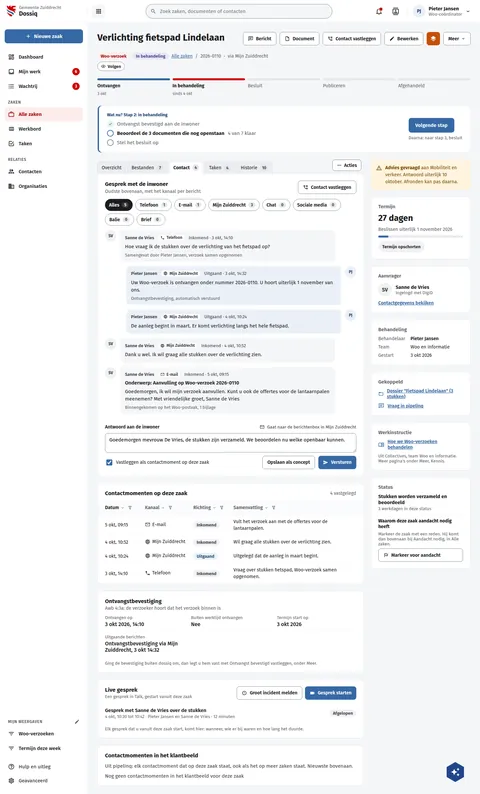
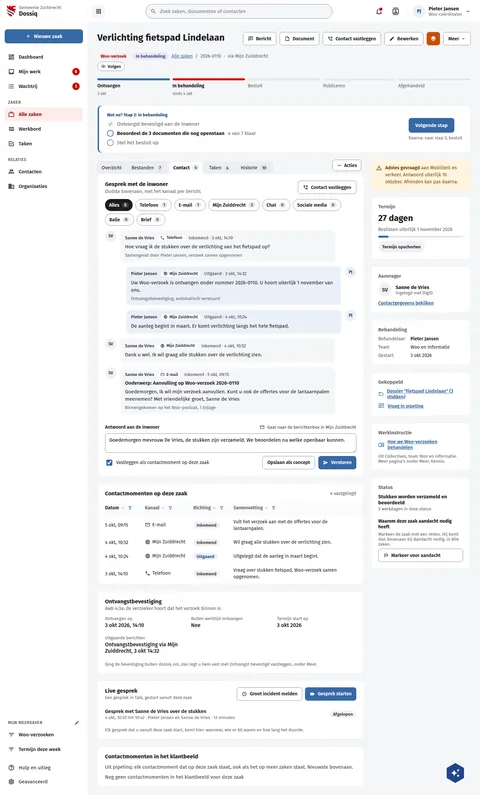
fix(screens): DqZaakSamenwerken and DqZaakContact r32 outliers (#607)
* fix(screens): DqZaakSamenwerken's options and footer as the other dialogs

The Delen/Overdragen option names at 15px like every dialog's options (they
inherited 16), and the footer buttons padded as the dialog boards draw them:
16px for Annuleren, 18px for Delen with its icon (r32: 16 vs 15, 14 vs 18).

Assisted-by: ClaudeCode:claude-opus-5-5

* fix(screens): DqZaakContact's receipt card starts its facts 14px under the header

As data cards under a subtitle do on the other boards (DqZaakBetrokkenen
Zetels) and live (r32 gapBelowTitle 31 vs 33.8; probed: header bottom 19.8,
the facts at 33.8).

Assisted-by: ClaudeCode:claude-opus-5-5

diff --git a/preview/screens/boards/DqZaakSamenwerken.html b/preview/screens/boards/DqZaakSamenwerken.html
@@ -154,8 +154,8 @@ a{color:var(--sc-primary, #3669a5)}a:hover{color:var(--sc-primary-deep, #234a78)
         <div style="display: flex; flex-direction: column; gap: 4px"><span style="font-size: 13px; font-weight: 700; color: var(--sc-primary-deep, #234a78)">Verlichting fietspad Lindelaan, 2026-0110</span><h2 id="dlg-titel" style="margin: 0; font-size: 20px; font-weight: 700">Zaak delen met een andere organisatie</h2></div>
         <button type="button" aria-label="Sluiten" style="width: 36px; height: 36px; border: 0; border-radius: 18px; background: transparent; color: var(--sc-work-text, #3d4047); display: inline-flex; align-items: center; justify-content: center"><svg width="18" height="18" viewbox="0 0 24 24" fill="currentColor" aria-hidden="true"><path d="M19,6.41L17.59,5L12,10.59L6.41,5L5,6.41L10.59,12L5,17.59L6.41,19L12,13.41L17.59,19L19,17.59L13.41,12L19,6.41Z"></path></svg></button>
       </div>
-      <div style="padding: 18px 24px 20px; display: flex; flex-direction: column; gap: 16px"><fieldset style="margin: 0; padding: 0; border: 0; display: flex; gap: 10px"><label style="flex: 1; display: flex; gap: 10px; align-items: flex-start; padding: 12px 14px; border: 2px solid var(--sc-primary, #3669a5); border-radius: 10px"><input type="radio" checked style="width: 20px; height: 20px; margin: 2px 0 0; accent-color: var(--sc-primary, #3669a5); flex: none"><span style="display: flex; flex-direction: column; gap: 2px"><strong>Delen</strong><span style="font-size: 13px; color: var(--sc-work-muted, #5e6168)">U blijft eigenaar; zij werken mee</span></span></label><label style="flex: 1; display: flex; gap: 10px; align-items: flex-start; padding: 12px 14px; border: 1px solid var(--sc-work-field, #828a95); border-radius: 10px"><input type="radio" style="width: 20px; height: 20px; margin: 2px 0 0; accent-color: var(--sc-primary, #3669a5); flex: none"><span style="display: flex; flex-direction: column; gap: 2px"><strong>Overdragen</strong><span style="font-size: 13px; color: var(--sc-work-muted, #5e6168)">Zij worden eigenaar; u kunt nog meelezen</span></span></label></fieldset><div style="display: flex; flex-direction: column; gap: 6px"><label style="font-size: 14px; font-weight: 600">Organisatie</label><div style="position: relative"><select style="appearance: none; width: 100%; height: 40px; box-sizing: border-box; padding: 0 36px 0 12px; border: 1px solid var(--sc-work-field, #828a95); border-radius: 8px; background: #ffffff; font: 400 15px var(--sc-font, 'Fira Sans'), sans-serif; color: var(--sc-work-ink, #1b1c1d)"><option>Omgevingsdienst Zuid-Holland Zuid (odzhz.nl)</option></select><span style="position: absolute; right: 10px; top: 10px; color: var(--sc-work-text, #3d4047)"><svg width="18" height="18" viewbox="0 0 24 24" fill="currentColor" aria-hidden="true"><path d="M7.41,8.58L12,13.17L16.59,8.58L18,10L12,16L6,10L7.41,8.58Z"></path></svg></span></div></div><div style="display: flex; flex-direction: column; gap: 6px"><label style="font-size: 14px; font-weight: 600">Wat zij mogen</label><div style="position: relative"><select style="appearance: none; width: 100%; height: 40px; box-sizing: border-box; padding: 0 36px 0 12px; border: 1px solid var(--sc-work-field, #828a95); border-radius: 8px; background: #ffffff; font: 400 15px var(--sc-font, 'Fira Sans'), sans-serif; color: var(--sc-work-ink, #1b1c1d)"><option>Lezen en documenten toevoegen</option></select><span style="position: absolute; right: 10px; top: 10px; color: var(--sc-work-text, #3d4047)"><svg width="18" height="18" viewbox="0 0 24 24" fill="currentColor" aria-hidden="true"><path d="M7.41,8.58L12,13.17L16.59,8.58L18,10L12,16L6,10L7.41,8.58Z"></path></svg></span></div></div><div style="display: flex; flex-direction: column; gap: 6px"><label style="font-size: 14px; font-weight: 600">Bericht <span style="font-weight: 400; color: var(--sc-work-muted, #5e6168)">(niet verplicht)</span></label><input type="text" value="Graag jullie advies over de verlichtingsnormen." style="box-sizing: border-box; width: 100%; height: 40px; padding: 0 12px; border: 1px solid var(--sc-work-field, #828a95); border-radius: 8px; background: #ffffff; font: 400 15px var(--sc-font, 'Fira Sans'), sans-serif; color: var(--sc-work-ink, #1b1c1d)"></div><label style="display: flex; gap: 10px; align-items: center; font-size: 14px; font-weight: 600"><input type="checkbox" style="width: 18px; height: 18px; margin: 0; accent-color: var(--sc-primary, #3669a5); flex: none">Alleen een deel van de zaakvelden delen</label><div style="display: flex; gap: 10px; align-items: flex-start; padding: 10px 14px; border-radius: 10px; background: var(--sc-primary-light, #eaf0f7); color: var(--sc-primary-deep, #234a78); font-size: 13px; line-height: 1.5"><span style="flex: none; margin-top: 1px"><svg width="18" height="18" viewbox="0 0 24 24" fill="currentColor" aria-hidden="true"><path d="M11,9H13V7H11M12,20C7.59,20 4,16.41 4,12C4,7.59 7.59,4 12,4C16.41,4 20,7.59 20,12C20,16.41 16.41,20 12,20M12,2A10,10 0 0,0 2,12A10,10 0 0,0 12,22A10,10 0 0,0 22,12A10,10 0 0,0 12,2M11,17H13V11H11V17Z"></path></svg></span><span>U ziet daarna op de zaak wat de andere organisatie doet: geopend, document toegevoegd, teruggegeven.</span></div></div>
-      <div style="display: flex; justify-content: flex-end; gap: 10px; padding: 16px 24px; border-top: 1px solid var(--sc-work-soft, #eef0f3)"><button type="button" style="display: inline-flex; align-items: center; gap: 8px; height: 40px; padding: 0 14px; border-radius: 8px; font: 600 14px var(--sc-font, 'Fira Sans'), sans-serif; white-space: nowrap; border: 1px solid var(--sc-work-field, #828a95); background: #ffffff; color: var(--sc-work-ink, #1b1c1d);">Annuleren</button><button type="button" style="display: inline-flex; align-items: center; gap: 8px; height: 40px; padding: 0 14px; border-radius: 8px; font: 600 14px var(--sc-font, 'Fira Sans'), sans-serif; white-space: nowrap; border: 0; background: var(--sc-primary, #3669a5); color: #ffffff;"><svg width="16" height="16" viewbox="0 0 24 24" fill="currentColor" aria-hidden="true"><path d="M2,21L23,12L2,3V10L17,12L2,14V21Z"></path></svg>Delen</button></div>
+      <div style="padding: 18px 24px 20px; display: flex; flex-direction: column; gap: 16px"><fieldset style="margin: 0; padding: 0; border: 0; display: flex; gap: 10px"><label style="flex: 1; display: flex; gap: 10px; align-items: flex-start; padding: 12px 14px; border: 2px solid var(--sc-primary, #3669a5); border-radius: 10px"><input type="radio" checked style="width: 20px; height: 20px; margin: 2px 0 0; accent-color: var(--sc-primary, #3669a5); flex: none"><span style="display: flex; flex-direction: column; gap: 2px"><strong style="font-size: 15px">Delen</strong><span style="font-size: 13px; color: var(--sc-work-muted, #5e6168)">U blijft eigenaar; zij werken mee</span></span></label><label style="flex: 1; display: flex; gap: 10px; align-items: flex-start; padding: 12px 14px; border: 1px solid var(--sc-work-field, #828a95); border-radius: 10px"><input type="radio" style="width: 20px; height: 20px; margin: 2px 0 0; accent-color: var(--sc-primary, #3669a5); flex: none"><span style="display: flex; flex-direction: column; gap: 2px"><strong style="font-size: 15px">Overdragen</strong><span style="font-size: 13px; color: var(--sc-work-muted, #5e6168)">Zij worden eigenaar; u kunt nog meelezen</span></span></label></fieldset><div style="display: flex; flex-direction: column; gap: 6px"><label style="font-size: 14px; font-weight: 600">Organisatie</label><div style="position: relative"><select style="appearance: none; width: 100%; height: 40px; box-sizing: border-box; padding: 0 36px 0 12px; border: 1px solid var(--sc-work-field, #828a95); border-radius: 8px; background: #ffffff; font: 400 15px var(--sc-font, 'Fira Sans'), sans-serif; color: var(--sc-work-ink, #1b1c1d)"><option>Omgevingsdienst Zuid-Holland Zuid (odzhz.nl)</option></select><span style="position: absolute; right: 10px; top: 10px; color: var(--sc-work-text, #3d4047)"><svg width="18" height="18" viewbox="0 0 24 24" fill="currentColor" aria-hidden="true"><path d="M7.41,8.58L12,13.17L16.59,8.58L18,10L12,16L6,10L7.41,8.58Z"></path></svg></span></div></div><div style="display: flex; flex-direction: column; gap: 6px"><label style="font-size: 14px; font-weight: 600">Wat zij mogen</label><div style="position: relative"><select style="appearance: none; width: 100%; height: 40px; box-sizing: border-box; padding: 0 36px 0 12px; border: 1px solid var(--sc-work-field, #828a95); border-radius: 8px; background: #ffffff; font: 400 15px var(--sc-font, 'Fira Sans'), sans-serif; color: var(--sc-work-ink, #1b1c1d)"><option>Lezen en documenten toevoegen</option></select><span style="position: absolute; right: 10px; top: 10px; color: var(--sc-work-text, #3d4047)"><svg width="18" height="18" viewbox="0 0 24 24" fill="currentColor" aria-hidden="true"><path d="M7.41,8.58L12,13.17L16.59,8.58L18,10L12,16L6,10L7.41,8.58Z"></path></svg></span></div></div><div style="display: flex; flex-direction: column; gap: 6px"><label style="font-size: 14px; font-weight: 600">Bericht <span style="font-weight: 400; color: var(--sc-work-muted, #5e6168)">(niet verplicht)</span></label><input type="text" value="Graag jullie advies over de verlichtingsnormen." style="box-sizing: border-box; width: 100%; height: 40px; padding: 0 12px; border: 1px solid var(--sc-work-field, #828a95); border-radius: 8px; background: #ffffff; font: 400 15px var(--sc-font, 'Fira Sans'), sans-serif; color: var(--sc-work-ink, #1b1c1d)"></div><label style="display: flex; gap: 10px; align-items: center; font-size: 14px; font-weight: 600"><input type="checkbox" style="width: 18px; height: 18px; margin: 0; accent-color: var(--sc-primary, #3669a5); flex: none">Alleen een deel van de zaakvelden delen</label><div style="display: flex; gap: 10px; align-items: flex-start; padding: 10px 14px; border-radius: 10px; background: var(--sc-primary-light, #eaf0f7); color: var(--sc-primary-deep, #234a78); font-size: 13px; line-height: 1.5"><span style="flex: none; margin-top: 1px"><svg width="18" height="18" viewbox="0 0 24 24" fill="currentColor" aria-hidden="true"><path d="M11,9H13V7H11M12,20C7.59,20 4,16.41 4,12C4,7.59 7.59,4 12,4C16.41,4 20,7.59 20,12C20,16.41 16.41,20 12,20M12,2A10,10 0 0,0 2,12A10,10 0 0,0 12,22A10,10 0 0,0 22,12A10,10 0 0,0 12,2M11,17H13V11H11V17Z"></path></svg></span><span>U ziet daarna op de zaak wat de andere organisatie doet: geopend, document toegevoegd, teruggegeven.</span></div></div>
+      <div style="display: flex; justify-content: flex-end; gap: 10px; padding: 16px 24px; border-top: 1px solid var(--sc-work-soft, #eef0f3)"><button type="button" style="display: inline-flex; align-items: center; gap: 8px; height: 40px; padding: 0 16px; border-radius: 8px; font: 600 14px var(--sc-font, 'Fira Sans'), sans-serif; white-space: nowrap; border: 1px solid var(--sc-work-field, #828a95); background: #ffffff; color: var(--sc-work-ink, #1b1c1d);">Annuleren</button><button type="button" style="display: inline-flex; align-items: center; gap: 8px; height: 40px; padding: 0 18px; border-radius: 8px; font: 600 14px var(--sc-font, 'Fira Sans'), sans-serif; white-space: nowrap; border: 0; background: var(--sc-primary, #3669a5); color: #ffffff;"><svg width="16" height="16" viewbox="0 0 24 24" fill="currentColor" aria-hidden="true"><path d="M2,21L23,12L2,3V10L17,12L2,14V21Z"></path></svg>Delen</button></div>
     </div>
   </div>
 </div>

diff --git a/preview/screens/boards/DqZaakContact.html b/preview/screens/boards/DqZaakContact.html
@@ -360,7 +360,7 @@ a{color:var(--sc-primary, #3669a5)}a:hover{color:var(--sc-primary-deep, #234a78)
                 </table>
               </div>
             </section>
-<section style="background: #ffffff; border: 1px solid var(--sc-work-line, #e4e6ea); border-radius: 12px; padding: 20px 22px; display: flex; flex-direction: column; gap: 12px"><div style="display: flex; flex-wrap: wrap; justify-content: space-between; align-items: flex-start; gap: 10px"><div style="display: flex; flex-direction: column; gap: 2px; min-width: 0"><h2 style="margin: 0; font-size: 17px; font-weight: 700">Ontvangstbevestiging</h2><span style="font-size: 14px; color: var(--sc-work-muted, #5e6168)">Awb 4:3a: de verzoeker hoort dat het verzoek binnen is</span></div></div><dl style="margin: 0; display: grid; grid-template-columns: repeat(auto-fit, minmax(200px, 1fr)); gap: 10px 20px"><div style="display: flex; flex-direction: column; gap: 3px; padding-bottom: 10px; border-bottom: 1px solid var(--sc-work-soft, #eef0f3)"><dt style="font-size: 13px; color: var(--sc-work-muted, #5e6168)">Ontvangen op</dt><dd style="margin: 0; font-weight: 500">3 okt 2026, 14:10</dd></div><div style="display: flex; flex-direction: column; gap: 3px; padding-bottom: 10px; border-bottom: 1px solid var(--sc-work-soft, #eef0f3)"><dt style="font-size: 13px; color: var(--sc-work-muted, #5e6168)">Buiten werktijd ontvangen</dt><dd style="margin: 0; font-weight: 500">Nee</dd></div><div style="display: flex; flex-direction: column; gap: 3px; padding-bottom: 10px; border-bottom: 1px solid var(--sc-work-soft, #eef0f3)"><dt style="font-size: 13px; color: var(--sc-work-muted, #5e6168)">Termijn start op</dt><dd style="margin: 0; font-weight: 500">3 okt 2026</dd></div><div style="display: flex; flex-direction: column; gap: 3px; padding-bottom: 10px; border-bottom: 1px solid var(--sc-work-soft, #eef0f3)"><dt style="font-size: 13px; color: var(--sc-work-muted, #5e6168)">Uitgaande berichten</dt><dd style="margin: 0; font-weight: 500">Ontvangstbevestiging via Mijn Zuiddrecht, 3 okt 14:32</dd></div></dl><span style="font-size: 13px; color: var(--sc-work-muted, #5e6168)">Ging de bevestiging buiten dossiq om, dan legt u hem vast met Ontvangst bevestigd vastleggen, onder Meer.</span></section><section style="background: #ffffff; border: 1px solid var(--sc-work-line, #e4e6ea); border-radius: 12px; padding: 20px 22px; display: flex; flex-direction: column; gap: 12px"><div style="display: flex; flex-wrap: wrap; justify-content: space-between; align-items: flex-start; gap: 10px"><div style="display: flex; flex-direction: column; gap: 2px; min-width: 0"><h2 style="margin: 0; font-size: 17px; font-weight: 700">Live gesprek</h2><span style="font-size: 13px; color: var(--sc-work-muted, #5e6168)">Een gesprek in Talk, gestart vanuit deze zaak</span></div><span style="display: flex; flex-wrap: wrap; gap: 8px"><button type="button" style="display: inline-flex; align-items: center; gap: 8px; height: 40px; padding: 0 14px; border-radius: 8px; border: 1px solid var(--sc-work-field, #828a95); background: #ffffff; color: var(--sc-work-ink, #1b1c1d); font: 600 14px var(--sc-font, 'Fira Sans'), sans-serif; white-space: nowrap"><svg width="16" height="16" viewbox="0 0 24 24" fill="currentColor" aria-hidden="true"><path d="M8.27,3L3,8.27V15.73L8.27,21H15.73C17.5,19.24 21,15.73 21,15.73V8.27L15.73,3M9.1,5H14.9L19,9.1V14.9L14.9,19H9.1L5,14.9V9.1M11,15H13V17H11V15M11,7H13V13H11V7"></path></svg>Groot incident melden</button><button type="button" style="display: inline-flex; align-items: center; gap: 8px; height: 40px; padding: 0 14px; border-radius: 8px; border: 0; background: var(--sc-primary, #3669a5); color: #ffffff; font: 600 14px var(--sc-font, 'Fira Sans'), sans-serif; white-space: nowrap"><svg width="16" height="16" viewbox="0 0 24 24" fill="currentColor" aria-hidden="true"><path d="M17,10.5V7A1,1 0 0,0 16,6H4A1,1 0 0,0 3,7V17A1,1 0 0,0 4,18H16A1,1 0 0,0 17,17V13.5L21,17.5V6.5L17,10.5Z"></path></svg>Gesprek starten</button></span></div><ul style="margin: 0; padding: 0; list-style: none"><li style="display: flex; flex-wrap: wrap; gap: 6px 16px; align-items: center; padding: 10px 0; border-top: 1px solid var(--sc-work-soft, #eef0f3)"><span style="flex: 1 1 240px; display: flex; flex-direction: column; gap: 2px"><strong style="font-size: 15px; font-weight: 600">Gesprek met Sanne de Vries over de stukken</strong><span style="font-size: 13px; color: var(--sc-work-muted, #5e6168)">4 okt, 10:30 tot 10:42 · Pieter Jansen en Sanne de Vries · 12 minuten</span></span><span style="padding: 3px 10px; border-radius: 12px; background: var(--sc-work-chip, #f0f1f3); color: var(--sc-work-text, #3d4047); font-size: 13px; font-weight: 600; white-space: nowrap">Afgelopen</span></li></ul><span style="font-size: 13px; color: var(--sc-work-muted, #5e6168)">Elk gesprek dat u vanuit deze zaak start, komt hier: wanneer, wie er bij waren en hoe lang het duurde.</span></section><section aria-label="Contactmomenten in het klantbeeld" style="background: #ffffff; border: 1px solid var(--sc-work-line, #e4e6ea); border-radius: 12px; padding: 20px 22px; display: flex; flex-direction: column; gap: 12px"><h2 style="margin: 0; font-size: 17px; font-weight: 700">Contactmomenten in het klantbeeld</h2><p style="margin: 0; font-size: 15px; color: var(--sc-work-text, #3d4047)">Uit pipelinq: elk contactmoment dat op deze zaak staat, ook als het op meer zaken staat. Nieuwste bovenaan.</p><p style="margin: 0; font-size: 15px; color: var(--sc-work-text, #3d4047)">Nog geen contactmomenten in het klantbeeld voor deze zaak</p></section>
+<section style="background: #ffffff; border: 1px solid var(--sc-work-line, #e4e6ea); border-radius: 12px; padding: 20px 22px; display: flex; flex-direction: column; gap: 12px"><div style="display: flex; flex-wrap: wrap; justify-content: space-between; align-items: flex-start; gap: 10px"><div style="display: flex; flex-direction: column; gap: 2px; min-width: 0"><h2 style="margin: 0; font-size: 17px; font-weight: 700">Ontvangstbevestiging</h2><span style="font-size: 14px; color: var(--sc-work-muted, #5e6168)">Awb 4:3a: de verzoeker hoort dat het verzoek binnen is</span></div></div><dl style="margin: 2px 0 0; display: grid; grid-template-columns: repeat(auto-fit, minmax(200px, 1fr)); gap: 10px 20px"><div style="display: flex; flex-direction: column; gap: 3px; padding-bottom: 10px; border-bottom: 1px solid var(--sc-work-soft, #eef0f3)"><dt style="font-size: 13px; color: var(--sc-work-muted, #5e6168)">Ontvangen op</dt><dd style="margin: 0; font-weight: 500">3 okt 2026, 14:10</dd></div><div style="display: flex; flex-direction: column; gap: 3px; padding-bottom: 10px; border-bottom: 1px solid var(--sc-work-soft, #eef0f3)"><dt style="font-size: 13px; color: var(--sc-work-muted, #5e6168)">Buiten werktijd ontvangen</dt><dd style="margin: 0; font-weight: 500">Nee</dd></div><div style="display: flex; flex-direction: column; gap: 3px; padding-bottom: 10px; border-bottom: 1px solid var(--sc-work-soft, #eef0f3)"><dt style="font-size: 13px; color: var(--sc-work-muted, #5e6168)">Termijn start op</dt><dd style="margin: 0; font-weight: 500">3 okt 2026</dd></div><div style="display: flex; flex-direction: column; gap: 3px; padding-bottom: 10px; border-bottom: 1px solid var(--sc-work-soft, #eef0f3)"><dt style="font-size: 13px; color: var(--sc-work-muted, #5e6168)">Uitgaande berichten</dt><dd style="margin: 0; font-weight: 500">Ontvangstbevestiging via Mijn Zuiddrecht, 3 okt 14:32</dd></div></dl><span style="font-size: 13px; color: var(--sc-work-muted, #5e6168)">Ging de bevestiging buiten dossiq om, dan legt u hem vast met Ontvangst bevestigd vastleggen, onder Meer.</span></section><section style="background: #ffffff; border: 1px solid var(--sc-work-line, #e4e6ea); border-radius: 12px; padding: 20px 22px; display: flex; flex-direction: column; gap: 12px"><div style="display: flex; flex-wrap: wrap; justify-content: space-between; align-items: flex-start; gap: 10px"><div style="display: flex; flex-direction: column; gap: 2px; min-width: 0"><h2 style="margin: 0; font-size: 17px; font-weight: 700">Live gesprek</h2><span style="font-size: 13px; color: var(--sc-work-muted, #5e6168)">Een gesprek in Talk, gestart vanuit deze zaak</span></div><span style="display: flex; flex-wrap: wrap; gap: 8px"><button type="button" style="display: inline-flex; align-items: center; gap: 8px; height: 40px; padding: 0 14px; border-radius: 8px; border: 1px solid var(--sc-work-field, #828a95); background: #ffffff; color: var(--sc-work-ink, #1b1c1d); font: 600 14px var(--sc-font, 'Fira Sans'), sans-serif; white-space: nowrap"><svg width="16" height="16" viewbox="0 0 24 24" fill="currentColor" aria-hidden="true"><path d="M8.27,3L3,8.27V15.73L8.27,21H15.73C17.5,19.24 21,15.73 21,15.73V8.27L15.73,3M9.1,5H14.9L19,9.1V14.9L14.9,19H9.1L5,14.9V9.1M11,15H13V17H11V15M11,7H13V13H11V7"></path></svg>Groot incident melden</button><button type="button" style="display: inline-flex; align-items: center; gap: 8px; height: 40px; padding: 0 14px; border-radius: 8px; border: 0; background: var(--sc-primary, #3669a5); color: #ffffff; font: 600 14px var(--sc-font, 'Fira Sans'), sans-serif; white-space: nowrap"><svg width="16" height="16" viewbox="0 0 24 24" fill="currentColor" aria-hidden="true"><path d="M17,10.5V7A1,1 0 0,0 16,6H4A1,1 0 0,0 3,7V17A1,1 0 0,0 4,18H16A1,1 0 0,0 17,17V13.5L21,17.5V6.5L17,10.5Z"></path></svg>Gesprek starten</button></span></div><ul style="margin: 0; padding: 0; list-style: none"><li style="display: flex; flex-wrap: wrap; gap: 6px 16px; align-items: center; padding: 10px 0; border-top: 1px solid var(--sc-work-soft, #eef0f3)"><span style="flex: 1 1 240px; display: flex; flex-direction: column; gap: 2px"><strong style="font-size: 15px; font-weight: 600">Gesprek met Sanne de Vries over de stukken</strong><span style="font-size: 13px; color: var(--sc-work-muted, #5e6168)">4 okt, 10:30 tot 10:42 · Pieter Jansen en Sanne de Vries · 12 minuten</span></span><span style="padding: 3px 10px; border-radius: 12px; background: var(--sc-work-chip, #f0f1f3); color: var(--sc-work-text, #3d4047); font-size: 13px; font-weight: 600; white-space: nowrap">Afgelopen</span></li></ul><span style="font-size: 13px; color: var(--sc-work-muted, #5e6168)">Elk gesprek dat u vanuit deze zaak start, komt hier: wanneer, wie er bij waren en hoe lang het duurde.</span></section><section aria-label="Contactmomenten in het klantbeeld" style="background: #ffffff; border: 1px solid var(--sc-work-line, #e4e6ea); border-radius: 12px; padding: 20px 22px; display: flex; flex-direction: column; gap: 12px"><h2 style="margin: 0; font-size: 17px; font-weight: 700">Contactmomenten in het klantbeeld</h2><p style="margin: 0; font-size: 15px; color: var(--sc-work-text, #3d4047)">Uit pipelinq: elk contactmoment dat op deze zaak staat, ook als het op meer zaken staat. Nieuwste bovenaan.</p><p style="margin: 0; font-size: 15px; color: var(--sc-work-text, #3d4047)">Nog geen contactmomenten in het klantbeeld voor deze zaak</p></section>
           </div>
 
           <aside style="flex: 1 1 300px; min-width: 0; display: flex; flex-direction: column; gap: 20px">

diff --git a/screens-src/zuiddrecht/DqZaakSamenwerken.dc.html b/screens-src/zuiddrecht/DqZaakSamenwerken.dc.html
@@ -36,8 +36,8 @@ a{color:#3669a5}a:hover{color:#234a78}
         <div style="display: flex; flex-direction: column; gap: 4px"><span style="font-size: 13px; font-weight: 700; color: #234a78">Verlichting fietspad Lindelaan, 2026-0110</span><h2 id="dlg-titel" style="margin: 0; font-size: 20px; font-weight: 700">Zaak delen met een andere organisatie</h2></div>
         <button type="button" aria-label="Sluiten" style="width: 36px; height: 36px; border: 0; border-radius: 18px; background: transparent; color: #3d4047; display: inline-flex; align-items: center; justify-content: center"><svg width="18" height="18" viewBox="0 0 24 24" fill="currentColor" aria-hidden="true"><path d="M19,6.41L17.59,5L12,10.59L6.41,5L5,6.41L10.59,12L5,17.59L6.41,19L12,13.41L17.59,19L19,17.59L13.41,12L19,6.41Z"></path></svg></button>
       </div>
-      <div style="padding: 18px 24px 20px; display: flex; flex-direction: column; gap: 16px"><fieldset style="margin: 0; padding: 0; border: 0; display: flex; gap: 10px"><label style="flex: 1; display: flex; gap: 10px; align-items: flex-start; padding: 12px 14px; border: 2px solid #3669a5; border-radius: 10px"><input type="radio" checked style="width: 20px; height: 20px; margin: 2px 0 0; accent-color: #3669a5; flex: none"><span style="display: flex; flex-direction: column; gap: 2px"><strong>Delen</strong><span style="font-size: 13px; color: #5e6168">U blijft eigenaar; zij werken mee</span></span></label><label style="flex: 1; display: flex; gap: 10px; align-items: flex-start; padding: 12px 14px; border: 1px solid #828a95; border-radius: 10px"><input type="radio"  style="width: 20px; height: 20px; margin: 2px 0 0; accent-color: #3669a5; flex: none"><span style="display: flex; flex-direction: column; gap: 2px"><strong>Overdragen</strong><span style="font-size: 13px; color: #5e6168">Zij worden eigenaar; u kunt nog meelezen</span></span></label></fieldset><div style="display: flex; flex-direction: column; gap: 6px"><label style="font-size: 14px; font-weight: 600">Organisatie</label><div style="position: relative"><select style="appearance: none; width: 100%; height: 40px; box-sizing: border-box; padding: 0 36px 0 12px; border: 1px solid #828a95; border-radius: 8px; background: #ffffff; font: 400 15px 'Fira Sans', sans-serif; color: #1b1c1d"><option>Omgevingsdienst Zuid-Holland Zuid (odzhz.nl)</option></select><span style="position: absolute; right: 10px; top: 10px; color: #3d4047"><svg width="18" height="18" viewBox="0 0 24 24" fill="currentColor" aria-hidden="true"><path d="M7.41,8.58L12,13.17L16.59,8.58L18,10L12,16L6,10L7.41,8.58Z"></path></svg></span></div></div><div style="display: flex; flex-direction: column; gap: 6px"><label style="font-size: 14px; font-weight: 600">Wat zij mogen</label><div style="position: relative"><select style="appearance: none; width: 100%; height: 40px; box-sizing: border-box; padding: 0 36px 0 12px; border: 1px solid #828a95; border-radius: 8px; background: #ffffff; font: 400 15px 'Fira Sans', sans-serif; color: #1b1c1d"><option>Lezen en documenten toevoegen</option></select><span style="position: absolute; right: 10px; top: 10px; color: #3d4047"><svg width="18" height="18" viewBox="0 0 24 24" fill="currentColor" aria-hidden="true"><path d="M7.41,8.58L12,13.17L16.59,8.58L18,10L12,16L6,10L7.41,8.58Z"></path></svg></span></div></div><div style="display: flex; flex-direction: column; gap: 6px"><label style="font-size: 14px; font-weight: 600">Bericht <span style="font-weight: 400; color: #5e6168">(niet verplicht)</span></label><input type="text" value="Graag jullie advies over de verlichtingsnormen." style="box-sizing: border-box; width: 100%; height: 40px; padding: 0 12px; border: 1px solid #828a95; border-radius: 8px; background: #ffffff; font: 400 15px 'Fira Sans', sans-serif; color: #1b1c1d"></div><label style="display: flex; gap: 10px; align-items: center; font-size: 14px; font-weight: 600"><input type="checkbox" style="width: 18px; height: 18px; margin: 0; accent-color: #3669a5; flex: none">Alleen een deel van de zaakvelden delen</label><div style="display: flex; gap: 10px; align-items: flex-start; padding: 10px 14px; border-radius: 10px; background: #eaf0f7; color: #234a78; font-size: 13px; line-height: 1.5"><span style="flex: none; margin-top: 1px"><svg width="18" height="18" viewBox="0 0 24 24" fill="currentColor" aria-hidden="true"><path d="M11,9H13V7H11M12,20C7.59,20 4,16.41 4,12C4,7.59 7.59,4 12,4C16.41,4 20,7.59 20,12C20,16.41 16.41,20 12,20M12,2A10,10 0 0,0 2,12A10,10 0 0,0 12,22A10,10 0 0,0 22,12A10,10 0 0,0 12,2M11,17H13V11H11V17Z"></path></svg></span><span>U ziet daarna op de zaak wat de andere organisatie doet: geopend, document toegevoegd, teruggegeven.</span></div></div>
-      <div style="display: flex; justify-content: flex-end; gap: 10px; padding: 16px 24px; border-top: 1px solid #eef0f3"><button type="button" style="display: inline-flex; align-items: center; gap: 8px; height: 40px; padding: 0 14px; border-radius: 8px; font: 600 14px 'Fira Sans', sans-serif; white-space: nowrap; border: 1px solid #828a95; background: #ffffff; color: #1b1c1d;">Annuleren</button><button type="button" style="display: inline-flex; align-items: center; gap: 8px; height: 40px; padding: 0 14px; border-radius: 8px; font: 600 14px 'Fira Sans', sans-serif; white-space: nowrap; border: 0; background: #3669a5; color: #ffffff;"><svg width="16" height="16" viewBox="0 0 24 24" fill="currentColor" aria-hidden="true"><path d="M2,21L23,12L2,3V10L17,12L2,14V21Z"></path></svg>Delen</button></div>
+      <div style="padding: 18px 24px 20px; display: flex; flex-direction: column; gap: 16px"><fieldset style="margin: 0; padding: 0; border: 0; display: flex; gap: 10px"><label style="flex: 1; display: flex; gap: 10px; align-items: flex-start; padding: 12px 14px; border: 2px solid #3669a5; border-radius: 10px"><input type="radio" checked style="width: 20px; height: 20px; margin: 2px 0 0; accent-color: #3669a5; flex: none"><span style="display: flex; flex-direction: column; gap: 2px"><strong style="font-size: 15px">Delen</strong><span style="font-size: 13px; color: #5e6168">U blijft eigenaar; zij werken mee</span></span></label><label style="flex: 1; display: flex; gap: 10px; align-items: flex-start; padding: 12px 14px; border: 1px solid #828a95; border-radius: 10px"><input type="radio"  style="width: 20px; height: 20px; margin: 2px 0 0; accent-color: #3669a5; flex: none"><span style="display: flex; flex-direction: column; gap: 2px"><strong style="font-size: 15px">Overdragen</strong><span style="font-size: 13px; color: #5e6168">Zij worden eigenaar; u kunt nog meelezen</span></span></label></fieldset><div style="display: flex; flex-direction: column; gap: 6px"><label style="font-size: 14px; font-weight: 600">Organisatie</label><div style="position: relative"><select style="appearance: none; width: 100%; height: 40px; box-sizing: border-box; padding: 0 36px 0 12px; border: 1px solid #828a95; border-radius: 8px; background: #ffffff; font: 400 15px 'Fira Sans', sans-serif; color: #1b1c1d"><option>Omgevingsdienst Zuid-Holland Zuid (odzhz.nl)</option></select><span style="position: absolute; right: 10px; top: 10px; color: #3d4047"><svg width="18" height="18" viewBox="0 0 24 24" fill="currentColor" aria-hidden="true"><path d="M7.41,8.58L12,13.17L16.59,8.58L18,10L12,16L6,10L7.41,8.58Z"></path></svg></span></div></div><div style="display: flex; flex-direction: column; gap: 6px"><label style="font-size: 14px; font-weight: 600">Wat zij mogen</label><div style="position: relative"><select style="appearance: none; width: 100%; height: 40px; box-sizing: border-box; padding: 0 36px 0 12px; border: 1px solid #828a95; border-radius: 8px; background: #ffffff; font: 400 15px 'Fira Sans', sans-serif; color: #1b1c1d"><option>Lezen en documenten toevoegen</option></select><span style="position: absolute; right: 10px; top: 10px; color: #3d4047"><svg width="18" height="18" viewBox="0 0 24 24" fill="currentColor" aria-hidden="true"><path d="M7.41,8.58L12,13.17L16.59,8.58L18,10L12,16L6,10L7.41,8.58Z"></path></svg></span></div></div><div style="display: flex; flex-direction: column; gap: 6px"><label style="font-size: 14px; font-weight: 600">Bericht <span style="font-weight: 400; color: #5e6168">(niet verplicht)</span></label><input type="text" value="Graag jullie advies over de verlichtingsnormen." style="box-sizing: border-box; width: 100%; height: 40px; padding: 0 12px; border: 1px solid #828a95; border-radius: 8px; background: #ffffff; font: 400 15px 'Fira Sans', sans-serif; color: #1b1c1d"></div><label style="display: flex; gap: 10px; align-items: center; font-size: 14px; font-weight: 600"><input type="checkbox" style="width: 18px; height: 18px; margin: 0; accent-color: #3669a5; flex: none">Alleen een deel van de zaakvelden delen</label><div style="display: flex; gap: 10px; align-items: flex-start; padding: 10px 14px; border-radius: 10px; background: #eaf0f7; color: #234a78; font-size: 13px; line-height: 1.5"><span style="flex: none; margin-top: 1px"><svg width="18" height="18" viewBox="0 0 24 24" fill="currentColor" aria-hidden="true"><path d="M11,9H13V7H11M12,20C7.59,20 4,16.41 4,12C4,7.59 7.59,4 12,4C16.41,4 20,7.59 20,12C20,16.41 16.41,20 12,20M12,2A10,10 0 0,0 2,12A10,10 0 0,0 12,22A10,10 0 0,0 22,12A10,10 0 0,0 12,2M11,17H13V11H11V17Z"></path></svg></span><span>U ziet daarna op de zaak wat de andere organisatie doet: geopend, document toegevoegd, teruggegeven.</span></div></div>
+      <div style="display: flex; justify-content: flex-end; gap: 10px; padding: 16px 24px; border-top: 1px solid #eef0f3"><button type="button" style="display: inline-flex; align-items: center; gap: 8px; height: 40px; padding: 0 16px; border-radius: 8px; font: 600 14px 'Fira Sans', sans-serif; white-space: nowrap; border: 1px solid #828a95; background: #ffffff; color: #1b1c1d;">Annuleren</button><button type="button" style="display: inline-flex; align-items: center; gap: 8px; height: 40px; padding: 0 18px; border-radius: 8px; font: 600 14px 'Fira Sans', sans-serif; white-space: nowrap; border: 0; background: #3669a5; color: #ffffff;"><svg width="16" height="16" viewBox="0 0 24 24" fill="currentColor" aria-hidden="true"><path d="M2,21L23,12L2,3V10L17,12L2,14V21Z"></path></svg>Delen</button></div>
     </div>
   </div>
 </div>

diff --git a/screens-src/zuiddrecht/DqZaakContact.dc.html b/screens-src/zuiddrecht/DqZaakContact.dc.html
@@ -135,7 +135,7 @@ a{color:#3669a5}a:hover{color:#234a78}
                 </table>
               </div>
             </section>
-<section style="background: #ffffff; border: 1px solid #e4e6ea; border-radius: 12px; padding: 20px 22px; display: flex; flex-direction: column; gap: 12px"><div style="display: flex; flex-wrap: wrap; justify-content: space-between; align-items: flex-start; gap: 10px"><div style="display: flex; flex-direction: column; gap: 2px; min-width: 0"><h2 style="margin: 0; font-size: 17px; font-weight: 700">Ontvangstbevestiging</h2><span style="font-size: 14px; color: #5e6168">Awb 4:3a: de verzoeker hoort dat het verzoek binnen is</span></div></div><dl style="margin: 0; display: grid; grid-template-columns: repeat(auto-fit, minmax(200px, 1fr)); gap: 10px 20px"><div style="display: flex; flex-direction: column; gap: 3px; padding-bottom: 10px; border-bottom: 1px solid #eef0f3"><dt style="font-size: 13px; color: #5e6168">Ontvangen op</dt><dd style="margin: 0; font-weight: 500">3 okt 2026, 14:10</dd></div><div style="display: flex; flex-direction: column; gap: 3px; padding-bottom: 10px; border-bottom: 1px solid #eef0f3"><dt style="font-size: 13px; color: #5e6168">Buiten werktijd ontvangen</dt><dd style="margin: 0; font-weight: 500">Nee</dd></div><div style="display: flex; flex-direction: column; gap: 3px; padding-bottom: 10px; border-bottom: 1px solid #eef0f3"><dt style="font-size: 13px; color: #5e6168">Termijn start op</dt><dd style="margin: 0; font-weight: 500">3 okt 2026</dd></div><div style="display: flex; flex-direction: column; gap: 3px; padding-bottom: 10px; border-bottom: 1px solid #eef0f3"><dt style="font-size: 13px; color: #5e6168">Uitgaande berichten</dt><dd style="margin: 0; font-weight: 500">Ontvangstbevestiging via Mijn Zuiddrecht, 3 okt 14:32</dd></div></dl><span style="font-size: 13px; color: #5e6168">Ging de bevestiging buiten dossiq om, dan legt u hem vast met Ontvangst bevestigd vastleggen, onder Meer.</span></section><section style="background: #ffffff; border: 1px solid #e4e6ea; border-radius: 12px; padding: 20px 22px; display: flex; flex-direction: column; gap: 12px"><div style="display: flex; flex-wrap: wrap; justify-content: space-between; align-items: flex-start; gap: 10px"><div style="display: flex; flex-direction: column; gap: 2px; min-width: 0"><h2 style="margin: 0; font-size: 17px; font-weight: 700">Live gesprek</h2><span style="font-size: 13px; color: #5e6168">Een gesprek in Talk, gestart vanuit deze zaak</span></div><span style="display: flex; flex-wrap: wrap; gap: 8px"><button type="button" style="display: inline-flex; align-items: center; gap: 8px; height: 40px; padding: 0 14px; border-radius: 8px; border: 1px solid #828a95; background: #ffffff; color: #1b1c1d; font: 600 14px 'Fira Sans', sans-serif; white-space: nowrap"><svg width="16" height="16" viewBox="0 0 24 24" fill="currentColor" aria-hidden="true"><path d="M8.27,3L3,8.27V15.73L8.27,21H15.73C17.5,19.24 21,15.73 21,15.73V8.27L15.73,3M9.1,5H14.9L19,9.1V14.9L14.9,19H9.1L5,14.9V9.1M11,15H13V17H11V15M11,7H13V13H11V7"></path></svg>Groot incident melden</button><button type="button" style="display: inline-flex; align-items: center; gap: 8px; height: 40px; padding: 0 14px; border-radius: 8px; border: 0; background: #3669a5; color: #ffffff; font: 600 14px 'Fira Sans', sans-serif; white-space: nowrap"><svg width="16" height="16" viewBox="0 0 24 24" fill="currentColor" aria-hidden="true"><path d="M17,10.5V7A1,1 0 0,0 16,6H4A1,1 0 0,0 3,7V17A1,1 0 0,0 4,18H16A1,1 0 0,0 17,17V13.5L21,17.5V6.5L17,10.5Z"></path></svg>Gesprek starten</button></span></div><ul style="margin: 0; padding: 0; list-style: none"><li style="display: flex; flex-wrap: wrap; gap: 6px 16px; align-items: center; padding: 10px 0; border-top: 1px solid #eef0f3"><span style="flex: 1 1 240px; display: flex; flex-direction: column; gap: 2px"><strong style="font-size: 15px; font-weight: 600">Gesprek met Sanne de Vries over de stukken</strong><span style="font-size: 13px; color: #5e6168">4 okt, 10:30 tot 10:42 · Pieter Jansen en Sanne de Vries · 12 minuten</span></span><span style="padding: 3px 10px; border-radius: 12px; background: #f0f1f3; color: #3d4047; font-size: 13px; font-weight: 600; white-space: nowrap">Afgelopen</span></li></ul><span style="font-size: 13px; color: #5e6168">Elk gesprek dat u vanuit deze zaak start, komt hier: wanneer, wie er bij waren en hoe lang het duurde.</span></section><section aria-label="Contactmomenten in het klantbeeld" style="background: #ffffff; border: 1px solid #e4e6ea; border-radius: 12px; padding: 20px 22px; display: flex; flex-direction: column; gap: 12px"><h2 style="margin: 0; font-size: 17px; font-weight: 700">Contactmomenten in het klantbeeld</h2><p style="margin: 0; font-size: 15px; color: #3d4047">Uit pipelinq: elk contactmoment dat op deze zaak staat, ook als het op meer zaken staat. Nieuwste bovenaan.</p><p style="margin: 0; font-size: 15px; color: #3d4047">Nog geen contactmomenten in het klantbeeld voor deze zaak</p></section>
+<section style="background: #ffffff; border: 1px solid #e4e6ea; border-radius: 12px; padding: 20px 22px; display: flex; flex-direction: column; gap: 12px"><div style="display: flex; flex-wrap: wrap; justify-content: space-between; align-items: flex-start; gap: 10px"><div style="display: flex; flex-direction: column; gap: 2px; min-width: 0"><h2 style="margin: 0; font-size: 17px; font-weight: 700">Ontvangstbevestiging</h2><span style="font-size: 14px; color: #5e6168">Awb 4:3a: de verzoeker hoort dat het verzoek binnen is</span></div></div><dl style="margin: 2px 0 0; display: grid; grid-template-columns: repeat(auto-fit, minmax(200px, 1fr)); gap: 10px 20px"><div style="display: flex; flex-direction: column; gap: 3px; padding-bottom: 10px; border-bottom: 1px solid #eef0f3"><dt style="font-size: 13px; color: #5e6168">Ontvangen op</dt><dd style="margin: 0; font-weight: 500">3 okt 2026, 14:10</dd></div><div style="display: flex; flex-direction: column; gap: 3px; padding-bottom: 10px; border-bottom: 1px solid #eef0f3"><dt style="font-size: 13px; color: #5e6168">Buiten werktijd ontvangen</dt><dd style="margin: 0; font-weight: 500">Nee</dd></div><div style="display: flex; flex-direction: column; gap: 3px; padding-bottom: 10px; border-bottom: 1px solid #eef0f3"><dt style="font-size: 13px; color: #5e6168">Termijn start op</dt><dd style="margin: 0; font-weight: 500">3 okt 2026</dd></div><div style="display: flex; flex-direction: column; gap: 3px; padding-bottom: 10px; border-bottom: 1px solid #eef0f3"><dt style="font-size: 13px; color: #5e6168">Uitgaande berichten</dt><dd style="margin: 0; font-weight: 500">Ontvangstbevestiging via Mijn Zuiddrecht, 3 okt 14:32</dd></div></dl><span style="font-size: 13px; color: #5e6168">Ging de bevestiging buiten dossiq om, dan legt u hem vast met Ontvangst bevestigd vastleggen, onder Meer.</span></section><section style="background: #ffffff; border: 1px solid #e4e6ea; border-radius: 12px; padding: 20px 22px; display: flex; flex-direction: column; gap: 12px"><div style="display: flex; flex-wrap: wrap; justify-content: space-between; align-items: flex-start; gap: 10px"><div style="display: flex; flex-direction: column; gap: 2px; min-width: 0"><h2 style="margin: 0; font-size: 17px; font-weight: 700">Live gesprek</h2><span style="font-size: 13px; color: #5e6168">Een gesprek in Talk, gestart vanuit deze zaak</span></div><span style="display: flex; flex-wrap: wrap; gap: 8px"><button type="button" style="display: inline-flex; align-items: center; gap: 8px; height: 40px; padding: 0 14px; border-radius: 8px; border: 1px solid #828a95; background: #ffffff; color: #1b1c1d; font: 600 14px 'Fira Sans', sans-serif; white-space: nowrap"><svg width="16" height="16" viewBox="0 0 24 24" fill="currentColor" aria-hidden="true"><path d="M8.27,3L3,8.27V15.73L8.27,21H15.73C17.5,19.24 21,15.73 21,15.73V8.27L15.73,3M9.1,5H14.9L19,9.1V14.9L14.9,19H9.1L5,14.9V9.1M11,15H13V17H11V15M11,7H13V13H11V7"></path></svg>Groot incident melden</button><button type="button" style="display: inline-flex; align-items: center; gap: 8px; height: 40px; padding: 0 14px; border-radius: 8px; border: 0; background: #3669a5; color: #ffffff; font: 600 14px 'Fira Sans', sans-serif; white-space: nowrap"><svg width="16" height="16" viewBox="0 0 24 24" fill="currentColor" aria-hidden="true"><path d="M17,10.5V7A1,1 0 0,0 16,6H4A1,1 0 0,0 3,7V17A1,1 0 0,0 4,18H16A1,1 0 0,0 17,17V13.5L21,17.5V6.5L17,10.5Z"></path></svg>Gesprek starten</button></span></div><ul style="margin: 0; padding: 0; list-style: none"><li style="display: flex; flex-wrap: wrap; gap: 6px 16px; align-items: center; padding: 10px 0; border-top: 1px solid #eef0f3"><span style="flex: 1 1 240px; display: flex; flex-direction: column; gap: 2px"><strong style="font-size: 15px; font-weight: 600">Gesprek met Sanne de Vries over de stukken</strong><span style="font-size: 13px; color: #5e6168">4 okt, 10:30 tot 10:42 · Pieter Jansen en Sanne de Vries · 12 minuten</span></span><span style="padding: 3px 10px; border-radius: 12px; background: #f0f1f3; color: #3d4047; font-size: 13px; font-weight: 600; white-space: nowrap">Afgelopen</span></li></ul><span style="font-size: 13px; color: #5e6168">Elk gesprek dat u vanuit deze zaak start, komt hier: wanneer, wie er bij waren en hoe lang het duurde.</span></section><section aria-label="Contactmomenten in het klantbeeld" style="background: #ffffff; border: 1px solid #e4e6ea; border-radius: 12px; padding: 20px 22px; display: flex; flex-direction: column; gap: 12px"><h2 style="margin: 0; font-size: 17px; font-weight: 700">Contactmomenten in het klantbeeld</h2><p style="margin: 0; font-size: 15px; color: #3d4047">Uit pipelinq: elk contactmoment dat op deze zaak staat, ook als het op meer zaken staat. Nieuwste bovenaan.</p><p style="margin: 0; font-size: 15px; color: #3d4047">Nog geen contactmomenten in het klantbeeld voor deze zaak</p></section>
           </div>
 
           <aside style="flex: 1 1 300px; min-width: 0; display: flex; flex-direction: column; gap: 20px">
